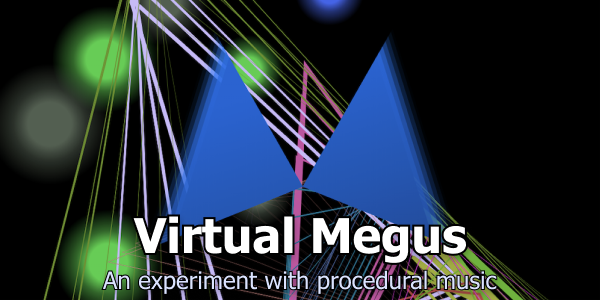
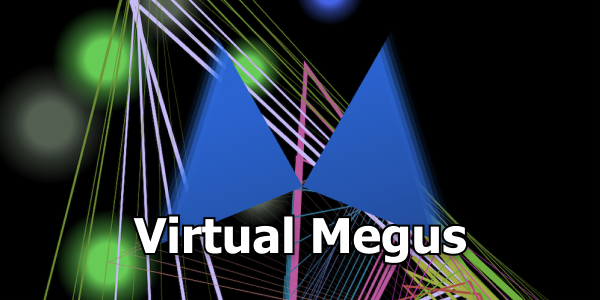
The first article about Virtual Megus

Changed region(s): [[0.15, 0.9, 0.84, 0.99]]

diff --git a/2020/08/18/virtual-megus.html b/2020/08/18/virtual-megus.html
@@ -1,0 +1,158 @@
+<!DOCTYPE html>
+<html lang="en"><head><script async src="https://www.googletagmanager.com/gtag/js?id=UA-104711057-2"></script>
+	<script>
+  	window.dataLayer = window.dataLayer || [];
+  	function gtag(){dataLayer.push(arguments);}
+  	gtag('js', new Date());
+  	gtag('config', 'UA-104711057-2');
+	</script><meta charset="utf-8">
+  <meta http-equiv="X-UA-Compatible" content="IE=edge">
+  <meta name="viewport" content="width=device-width, initial-scale=1">
+  <link rel="icon" href="/assets/favicon-96x96.png">
+  <link href="https://fonts.googleapis.com/css?family=Open+Sans:600|PT+Serif|Source+Code+Pro&display=swap" rel="stylesheet"><!-- Begin Jekyll SEO tag v2.5.0 -->
+<title>Virtual Megus: my experiment with generative music | Megus</title>
+<meta name="generator" content="Jekyll v3.8.5" />
+<meta property="og:title" content="Virtual Megus: my experiment with generative music" />
+<meta property="og:locale" content="en_US" />
+<meta name="description" content="A year ago, I began working on my biggest pet project — Virtual Megus. What is it and why I’m working on it." />
+<meta property="og:description" content="A year ago, I began working on my biggest pet project — Virtual Megus. What is it and why I’m working on it." />
+<link rel="canonical" href="https://megus.org/2020/08/18/virtual-megus.html" />
+<meta property="og:url" content="https://megus.org/2020/08/18/virtual-megus.html" />
+<meta property="og:site_name" content="Megus" />
+<meta property="og:image" content="https://megus.org/assets/blog-images/2020-08-18-cover.jpg" />
+<meta property="og:type" content="article" />
+<meta property="article:published_time" content="2020-08-18T00:00:00+03:00" />
+<meta name="twitter:card" content="summary" />
+<meta name="twitter:site" content="@sugem" />
+<meta name="twitter:creator" content="@sugem" />
+<script type="application/ld+json">
+{"url":"https://megus.org/2020/08/18/virtual-megus.html","headline":"Virtual Megus: my experiment with generative music","dateModified":"2020-08-18T00:00:00+03:00","datePublished":"2020-08-18T00:00:00+03:00","image":"https://megus.org/assets/blog-images/2020-08-18-cover.jpg","mainEntityOfPage":{"@type":"WebPage","@id":"https://megus.org/2020/08/18/virtual-megus.html"},"description":"A year ago, I began working on my biggest pet project — Virtual Megus. What is it and why I’m working on it.","@type":"BlogPosting","@context":"http://schema.org"}</script>
+<!-- End Jekyll SEO tag -->
+<link rel="stylesheet" href="/assets/main.css"><link type="application/atom+xml" rel="alternate" href="https://megus.org/feed.xml" title="Megus" /></head>
+<body><header class="site-header" role="banner">
+  <div class="site-header-wrapper"><a href="/"><img class="site-logo" src="/assets/megus.png" />
+    <span class="site-title" rel="author">Megus</span></a><nav class="site-nav">
+        <input type="checkbox" id="nav-trigger" class="nav-trigger" />
+        <label for="nav-trigger">
+          <span class="menu-icon">
+            <svg viewBox="0 0 18 15" width="18px" height="15px">
+              <path d="M18,1.484c0,0.82-0.665,1.484-1.484,1.484H1.484C0.665,2.969,0,2.304,0,1.484l0,0C0,0.665,0.665,0,1.484,0 h15.032C17.335,0,18,0.665,18,1.484L18,1.484z M18,7.516C18,8.335,17.335,9,16.516,9H1.484C0.665,9,0,8.335,0,7.516l0,0 c0-0.82,0.665-1.484,1.484-1.484h15.032C17.335,6.031,18,6.696,18,7.516L18,7.516z M18,13.516C18,14.335,17.335,15,16.516,15H1.484 C0.665,15,0,14.335,0,13.516l0,0c0-0.82,0.665-1.483,1.484-1.483h15.032C17.335,12.031,18,12.695,18,13.516L18,13.516z"/>
+            </svg>
+          </span>
+        </label>
+
+        <div class="trigger"><a class="page-link" href="/about.html">About</a><a class="page-link" href="/portfolio.html">Portfolio</a><a class="page-link" href="/music.html">Music</a></div>
+      </nav></div>
+</header>
+<main class="page-content" aria-label="Content">
+      <div class="wrapper">
+        <div id="fb-root"></div>
+<script async defer crossorigin="anonymous" src="https://connect.facebook.net/en_US/sdk.js#xfbml=1&version=v3.3&appId=194003690636360&autoLogAppEvents=1"></script>
+<script>window.twttr = (function(d, s, id) {
+    var js, fjs = d.getElementsByTagName(s)[0],
+      t = window.twttr || {};
+    if (d.getElementById(id)) return t;
+    js = d.createElement(s);
+    js.id = id;
+    js.src = "https://platform.twitter.com/widgets.js";
+    fjs.parentNode.insertBefore(js, fjs);
+  
+    t._e = [];
+    t.ready = function(f) {
+      t._e.push(f);
+    };
+  
+    return t;
+  }(document, "script", "twitter-wjs"));</script>
+
+<article class="post h-entry" itemscope itemtype="http://schema.org/BlogPosting">
+  <header class="post-header"><div class="post-cover" style="background-image: url(/assets/blog-images/2020-08-18-cover.jpg)">
+        <div class="gradient">
+          <img hidden itemprop="image" src="/assets/blog-images/2020-08-18-cover.jpg" />
+          <h1 class="post-cover-title p-name" itemprop="name headline">Virtual Megus: my experiment with generative music</h1>
+        </div>
+      </div><p class="post-meta">
+      <time class="dt-published" datetime="2020-08-18T00:00:00+03:00" itemprop="datePublished">Aug 18, 2020
+      </time>
+    </p>
+    <span hidden itemscope itemtype="http://schema.org/Person" itemprop="author">
+      <span hidden itemprop="name">Roman "Megus" Petrov</span>
+    </span>
+  </header>
+
+  <div class="post-content e-content" itemprop="articleBody">
+    <h1 id="virtual-megus-my-experiment-with-generative-music">Virtual Megus: my experiment with generative music</h1>
+
+<iframe class="frame" allowfullscreen="" src="https://www.youtube.com/embed/ntrQNkF8z7g"></iframe>
+
+<p>A year ago, I began working on my current biggest pet project — <a href="https://megus.org/virtual-megus/">Virtual Megus</a>, a generative music system. Music is my hobby, and programming is my job. Projects which combine both of my main passions were always my favorite. I had the idea to create a program that composes music for years but never did it. Last August, I was on vacation and had plenty of time, so I finally decided to give it a try.</p>
+
+<p>Brian Eno, an ambient music pioneer, used the term “Generative music” to describe any music that is ever-different and changing, created by a system. However, the idea of creating music using algorithms or systems is far from new. According to <a href="https://ccrma.stanford.edu/~blackrse/algorithm.html">this article</a>, it dates back to the ancient Greeks! During the Classical period, one of “Musical dice games” (“Musikalisches Würfelspiel” in German) was attributed to Mozart himself, but, according to Wikipedia, this attribution hasn’t been authenticated.</p>
+
+<p>There are many generative music apps, and I tried a number of them. Some were simple and were generating abstract, ambient, and unstructured music. Others had an overwhelming amount of possibilities, but the learning curve was steep. So, like any typical programmer, I decided to invent my own system.</p>
+
+<p>Eno’s definition of generative music covers many different approaches. Manipulating pieces of pre-recorded music, random noises, rule-based composition — these are just a few examples. I picked the path of algorithmic composition. Creations often resemble their creators, mine is not an exception, hence the name — Virtual Megus. I want my system to “compose” melodic electronic music with a song-like structure. It’s an ambitious task, and as a self-taught musician without any formal music education, I realized that I can’t do it without learning music theory. I found an old Soviet music harmony textbook and began studying. When I learn something new, I add it to Virtual Megus.</p>
+
+<p>When I was beginning the work, I decided to make Virtual Megus available to everyone, that’s why it’s not a desktop or a mobile app, but a web application. Everything happens right in a browser, there’s no server-side code at all. As I wanted to learn WebAudio API better, I implemented everything myself from scratch without using any 3rd-party libraries like <a href="https://tonejs.github.io">Tone.js</a>. I also didn’t want to use any Javascript build systems, so all code is pure ES8 and is hosted directly from the repository with GitHub Pages.</p>
+
+<p>What I’ve implemented so far:</p>
+
+<ul>
+  <li>Sample-based drum machine.</li>
+  <li>Monophonic and polyphonic synths.</li>
+  <li>Song structure generator based on a state machine.</li>
+  <li>Chord sequence generator for diatonic scales.</li>
+  <li>Generators for drum patterns, bass, arpeggios, pads, and melodies.</li>
+  <li>Visualization system.</li>
+</ul>
+
+<p>The most challenging one for me now is the melody generator. It produces quite lovely results but still makes many harmony mistakes. I continue to improve every module, sometimes I even rewrite them from scratch when I decide to improve the system architecture or come up with new ideas.</p>
+
+<p>My generative music journey is only beginning. Virtual Megus backlog already has over 40 items, and it’s growing every week! Whenever I learn something new about music theory from books, Wikipedia, or YouTube videos, I get even more ideas.</p>
+
+<ul>
+  <li><a href="https://megus.org/virtual-megus/">Listen to Virtual Megus</a></li>
+  <li><a href="https://github.com/Megus/virtual-megus">Source code on GitHub</a></li>
+</ul>
+
+  </div>
+
+  <a class="u-url" href="/2020/08/18/virtual-megus.html" hidden></a>
+
+</article>
+
+<div class="social-buttons">
+  <a class="twitter-share-button" data-size="large"
+    href="https://twitter.com/intent/tweet?text=Virtual%20Megus:%20my%20experiment%20with%20generative%20music&via=sugem">
+    Tweet
+  </a>
+  <div class="fb-share-button" style="top: -7px;"
+    data-href="https://megus.org/2020/08/18/virtual-megus.html"
+    data-layout="button" data-size="large">
+    <a target="_blank" href="https://www.facebook.com/sharer/sharer.php?u=https%3A%2F%2Fdevelopers.facebook.com%2Fdocs%2Fplugins%2F&amp;src=sdkpreparse" class="fb-xfbml-parse-ignore">Share</a>
+  </div>
+</div>
+
+      </div>
+    </main><footer class="site-footer h-card">
+  <data class="u-url" href="/"></data>
+
+  <div class="wrapper">
+    <div class="footer-col-wrapper">
+      <div class="footer-col">
+        © Roman “Megus” Petrov.<br />
+        <a class="u-email" href="mailto:roman.petrov@icloud.com">roman.petrov@icloud.com</a>
+      </div>
+      <div class="footer-col">
+        <a href="https://twitter.com/sugem"><svg viewbox="0 0 16 16" class="social-icon"><use xlink:href="/assets/minima-social-icons.svg#twitter"></use></svg></a>
+        <a href="https://www.facebook.com/sugem"><svg viewbox="0 0 16 16" class="social-icon"><use xlink:href="/assets/minima-social-icons.svg#facebook"></use></svg></a>
+        <a href="https://github.com/Megus"><svg viewbox="0 0 16 16" class="social-icon"><use xlink:href="/assets/minima-social-icons.svg#github"></use></svg></a>
+        <a href="https://www.youtube.com/user/megussugem"><svg viewbox="0 0 16 16" class="social-icon"><use xlink:href="/assets/minima-social-icons.svg#youtube"></use></svg></a>    
+        <a href="https://medium.com/@megus"><svg viewbox="0 0 16 16" class="social-icon"><use xlink:href="/assets/minima-social-icons.svg#medium"></use></svg></a>
+      </div>
+    </div>
+  </div>
+
+</footer>
+</body>
+</html>

diff --git a/index.html b/index.html
@@ -24,7 +24,7 @@
 <meta name="twitter:site" content="@sugem" />
 <meta name="twitter:creator" content="@sugem" />
 <script type="application/ld+json">
-{"name":"Megus","description":"Personal website of Roman “Megus” Petrov, a programmer and a musician.","@type":"WebSite","url":"https://megus.org/","image":"https://megus.org/assets/megus-photo.jpg","headline":"Megus","@context":"http://schema.org"}</script>
+{"url":"https://megus.org/","headline":"Megus","image":"https://megus.org/assets/megus-photo.jpg","name":"Megus","description":"Personal website of Roman “Megus” Petrov, a programmer and a musician.","@type":"WebSite","@context":"http://schema.org"}</script>
 <!-- End Jekyll SEO tag -->
 <link rel="stylesheet" href="/assets/main.css"><link type="application/atom+xml" rel="alternate" href="https://megus.org/feed.xml" title="Megus" /></head>
 <body><header class="site-header" role="banner">
@@ -52,11 +52,17 @@
     <p>A generative music system which plays infinite electronic music right in your browser.</p>
   </div>
 </div>
-<div class="home-first-post"><a href="/2020/06/07/flutter-orientation.html"><div class="home-first-post-cover" style="background-image: url(/assets/blog-images/2020-06-07-cover.png)"></div></a><div class="home-first-post-body">
+<div class="home-first-post"><a href="/2020/08/18/virtual-megus.html"><div class="home-first-post-cover" style="background-image: url(/assets/blog-images/2020-08-18-cover.jpg)"></div></a><div class="home-first-post-body">
+            <h3><a href="/2020/08/18/virtual-megus.html">Virtual Megus: my experiment with generative music</a></h3>
+            <p>A year ago, I began working on my biggest pet project — Virtual Megus. What is it and why I’m working on it.</p>
+            <p class="post-meta"><span>Aug 18, 2020</span></p>
+          </div>
+        </div><div class="home-post"><a href="/2020/06/07/flutter-orientation.html"><div class="home-post-cover" style="background-image: url(/assets/blog-images/2020-06-07-cover.png)"></div></a><div>
             <h3><a href="/2020/06/07/flutter-orientation.html">Controlling screen orientation in Flutter apps on a per-screen basis</a></h3>
-            <p>A solution to a commonly needed feature for mobile apps made with Flutter.</p>
+            <span>A solution to a commonly needed feature for mobile apps made with Flutter.</span>
             <p class="post-meta"><span>Jun 7, 2020</span></p>
           </div>
+          </a>
         </div><div class="home-post"><a href="/2020/05/04/making-of-picochak.html"><div class="home-post-cover" style="background-image: url(/assets/blog-images/2020-05-04-cover.jpg)"></div></a><div>
             <h3><a href="/2020/05/04/making-of-picochak.html">Making of PICOCHAK</a></h3>
             <span>“Behind the scenes” of the PICO-8 demo I created for CAFe'2019 demoparty.</span>

diff --git a/2019/08/17/creativity-through-limitation-shadertoy.html b/2019/08/17/creativity-through-limitation-shadertoy.html
@@ -26,7 +26,7 @@
 <meta name="twitter:site" content="@sugem" />
 <meta name="twitter:creator" content="@sugem" />
 <script type="application/ld+json">
-{"description":"Shadertoy is a place where anyone can share realtime procedural graphics experiments. This article is an introduction to procedural graphics and ray tracing.","@type":"BlogPosting","url":"https://megus.org/2019/08/17/creativity-through-limitation-shadertoy.html","image":"https://megus.org/assets/blog-images/2019-08-17-cover.jpg","headline":"Creativity through limitation: Shadertoy","dateModified":"2019-08-17T00:00:00+03:00","datePublished":"2019-08-17T00:00:00+03:00","mainEntityOfPage":{"@type":"WebPage","@id":"https://megus.org/2019/08/17/creativity-through-limitation-shadertoy.html"},"@context":"http://schema.org"}</script>
+{"url":"https://megus.org/2019/08/17/creativity-through-limitation-shadertoy.html","headline":"Creativity through limitation: Shadertoy","dateModified":"2019-08-17T00:00:00+03:00","datePublished":"2019-08-17T00:00:00+03:00","image":"https://megus.org/assets/blog-images/2019-08-17-cover.jpg","mainEntityOfPage":{"@type":"WebPage","@id":"https://megus.org/2019/08/17/creativity-through-limitation-shadertoy.html"},"description":"Shadertoy is a place where anyone can share realtime procedural graphics experiments. This article is an introduction to procedural graphics and ray tracing.","@type":"BlogPosting","@context":"http://schema.org"}</script>
 <!-- End Jekyll SEO tag -->
 <link rel="stylesheet" href="/assets/main.css"><link type="application/atom+xml" rel="alternate" href="https://megus.org/feed.xml" title="Megus" /></head>
 <body><header class="site-header" role="banner">

diff --git a/2019/07/17/coding-problems-tower-of-hanoi.html b/2019/07/17/coding-problems-tower-of-hanoi.html
@@ -26,7 +26,7 @@
 <meta name="twitter:site" content="@sugem" />
 <meta name="twitter:creator" content="@sugem" />
 <script type="application/ld+json">
-{"description":"What benefits can developers get by solving coding problems? An example of solving a classic puzzle – Tower of Hanoi.","@type":"BlogPosting","url":"https://megus.org/2019/07/17/coding-problems-tower-of-hanoi.html","image":"https://megus.org/assets/blog-images/2019-07-17-cover.jpg","headline":"Coding problems: why do I like them? Solving Tower of Hanoi puzzle","dateModified":"2019-07-17T00:00:00+03:00","datePublished":"2019-07-17T00:00:00+03:00","mainEntityOfPage":{"@type":"WebPage","@id":"https://megus.org/2019/07/17/coding-problems-tower-of-hanoi.html"},"@context":"http://schema.org"}</script>
+{"url":"https://megus.org/2019/07/17/coding-problems-tower-of-hanoi.html","headline":"Coding problems: why do I like them? Solving Tower of Hanoi puzzle","dateModified":"2019-07-17T00:00:00+03:00","datePublished":"2019-07-17T00:00:00+03:00","image":"https://megus.org/assets/blog-images/2019-07-17-cover.jpg","mainEntityOfPage":{"@type":"WebPage","@id":"https://megus.org/2019/07/17/coding-problems-tower-of-hanoi.html"},"description":"What benefits can developers get by solving coding problems? An example of solving a classic puzzle – Tower of Hanoi.","@type":"BlogPosting","@context":"http://schema.org"}</script>
 <!-- End Jekyll SEO tag -->
 <link rel="stylesheet" href="/assets/main.css"><link rel="stylesheet" href="/assets/css/hanoi.css"><link type="application/atom+xml" rel="alternate" href="https://megus.org/feed.xml" title="Megus" /></head>
 <body><header class="site-header" role="banner">

diff --git a/2019/06/18/creativity-through-limitation-pico-8.html b/2019/06/18/creativity-through-limitation-pico-8.html
@@ -26,7 +26,7 @@
 <meta name="twitter:site" content="@sugem" />
 <meta name="twitter:creator" content="@sugem" />
 <script type="application/ld+json">
-{"description":"When was the last time you coded something just for fun? PICO-8 brings fun back to programming!","@type":"BlogPosting","url":"https://megus.org/2019/06/18/creativity-through-limitation-pico-8.html","image":"https://megus.org/assets/blog-images/2019-06-18-cover.jpg","headline":"Creativity through limitation: PICO-8 — Fantasy Console","dateModified":"2019-06-18T00:00:00+03:00","datePublished":"2019-06-18T00:00:00+03:00","mainEntityOfPage":{"@type":"WebPage","@id":"https://megus.org/2019/06/18/creativity-through-limitation-pico-8.html"},"@context":"http://schema.org"}</script>
+{"url":"https://megus.org/2019/06/18/creativity-through-limitation-pico-8.html","headline":"Creativity through limitation: PICO-8 — Fantasy Console","dateModified":"2019-06-18T00:00:00+03:00","datePublished":"2019-06-18T00:00:00+03:00","image":"https://megus.org/assets/blog-images/2019-06-18-cover.jpg","mainEntityOfPage":{"@type":"WebPage","@id":"https://megus.org/2019/06/18/creativity-through-limitation-pico-8.html"},"description":"When was the last time you coded something just for fun? PICO-8 brings fun back to programming!","@type":"BlogPosting","@context":"http://schema.org"}</script>
 <!-- End Jekyll SEO tag -->
 <link rel="stylesheet" href="/assets/main.css"><link type="application/atom+xml" rel="alternate" href="https://megus.org/feed.xml" title="Megus" /></head>
 <body><header class="site-header" role="banner">

diff --git a/projects/no-space-in-my-stomach.html b/projects/no-space-in-my-stomach.html
@@ -21,12 +21,12 @@
 <meta property="og:site_name" content="Megus" />
 <meta property="og:image" content="https://megus.org/assets/portfolio/no-space-in-my-stomach.jpg" />
 <meta property="og:type" content="article" />
-<meta property="article:published_time" content="2020-06-07T12:53:06+03:00" />
+<meta property="article:published_time" content="2020-08-18T22:07:51+03:00" />
 <meta name="twitter:card" content="summary" />
 <meta name="twitter:site" content="@sugem" />
 <meta name="twitter:creator" content="@sugem" />
 <script type="application/ld+json">
-{"description":"A puzzle platformer game created on Ludum Dare game jam","@type":"WebPage","url":"https://megus.org/projects/no-space-in-my-stomach.html","image":"https://megus.org/assets/portfolio/no-space-in-my-stomach.jpg","headline":"No Space In My Stomach","dateModified":"2020-06-07T12:53:06+03:00","datePublished":"2020-06-07T12:53:06+03:00","@context":"http://schema.org"}</script>
+{"url":"https://megus.org/projects/no-space-in-my-stomach.html","headline":"No Space In My Stomach","dateModified":"2020-08-18T22:07:51+03:00","datePublished":"2020-08-18T22:07:51+03:00","image":"https://megus.org/assets/portfolio/no-space-in-my-stomach.jpg","description":"A puzzle platformer game created on Ludum Dare game jam","@type":"WebPage","@context":"http://schema.org"}</script>
 <!-- End Jekyll SEO tag -->
 <link rel="stylesheet" href="/assets/main.css"><link type="application/atom+xml" rel="alternate" href="https://megus.org/feed.xml" title="Megus" /></head>
 <body><header class="site-header" role="banner">

diff --git a/projects/good-hamster-dead-hamster.html b/projects/good-hamster-dead-hamster.html
@@ -21,12 +21,12 @@
 <meta property="og:site_name" content="Megus" />
 <meta property="og:image" content="https://megus.org/assets/portfolio/good-hamster-dead-hamster.jpg" />
 <meta property="og:type" content="article" />
-<meta property="article:published_time" content="2020-06-07T12:53:06+03:00" />
+<meta property="article:published_time" content="2020-08-18T22:07:51+03:00" />
 <meta name="twitter:card" content="summary" />
 <meta name="twitter:site" content="@sugem" />
 <meta name="twitter:creator" content="@sugem" />
 <script type="application/ld+json">
-{"description":"A mix of cellular automaton fun and strategy","@type":"WebPage","url":"https://megus.org/projects/good-hamster-dead-hamster.html","image":"https://megus.org/assets/portfolio/good-hamster-dead-hamster.jpg","headline":"Good Hamster Dead Hamster","dateModified":"2020-06-07T12:53:06+03:00","datePublished":"2020-06-07T12:53:06+03:00","@context":"http://schema.org"}</script>
+{"url":"https://megus.org/projects/good-hamster-dead-hamster.html","headline":"Good Hamster Dead Hamster","dateModified":"2020-08-18T22:07:51+03:00","datePublished":"2020-08-18T22:07:51+03:00","image":"https://megus.org/assets/portfolio/good-hamster-dead-hamster.jpg","description":"A mix of cellular automaton fun and strategy","@type":"WebPage","@context":"http://schema.org"}</script>
 <!-- End Jekyll SEO tag -->
 <link rel="stylesheet" href="/assets/main.css"><link type="application/atom+xml" rel="alternate" href="https://megus.org/feed.xml" title="Megus" /></head>
 <body><header class="site-header" role="banner">

diff --git a/projects/defold-extensions.html b/projects/defold-extensions.html
@@ -21,12 +21,12 @@
 <meta property="og:site_name" content="Megus" />
 <meta property="og:image" content="https://megus.org/assets/portfolio/defold-extensions.jpg" />
 <meta property="og:type" content="article" />
-<meta property="article:published_time" content="2020-06-07T12:53:06+03:00" />
+<meta property="article:published_time" content="2020-08-18T22:07:51+03:00" />
 <meta name="twitter:card" content="summary" />
 <meta name="twitter:site" content="@sugem" />
 <meta name="twitter:creator" content="@sugem" />
 <script type="application/ld+json">
-{"description":"Open-source libraries and extensions for Defold game engine","@type":"WebPage","url":"https://megus.org/projects/defold-extensions.html","image":"https://megus.org/assets/portfolio/defold-extensions.jpg","headline":"Defold extensions","dateModified":"2020-06-07T12:53:06+03:00","datePublished":"2020-06-07T12:53:06+03:00","@context":"http://schema.org"}</script>
+{"url":"https://megus.org/projects/defold-extensions.html","headline":"Defold extensions","dateModified":"2020-08-18T22:07:51+03:00","datePublished":"2020-08-18T22:07:51+03:00","image":"https://megus.org/assets/portfolio/defold-extensions.jpg","description":"Open-source libraries and extensions for Defold game engine","@type":"WebPage","@context":"http://schema.org"}</script>
 <!-- End Jekyll SEO tag -->
 <link rel="stylesheet" href="/assets/main.css"><link type="application/atom+xml" rel="alternate" href="https://megus.org/feed.xml" title="Megus" /></head>
 <body><header class="site-header" role="banner">

diff --git a/projects/guitarability.html b/projects/guitarability.html
@@ -21,12 +21,12 @@
 <meta property="og:site_name" content="Megus" />
 <meta property="og:image" content="https://megus.org/assets/portfolio/guitarability.jpg" />
 <meta property="og:type" content="article" />
-<meta property="article:published_time" content="2020-06-07T12:53:06+03:00" />
+<meta property="article:published_time" content="2020-08-18T22:07:51+03:00" />
 <meta name="twitter:card" content="summary" />
 <meta name="twitter:site" content="@sugem" />
 <meta name="twitter:creator" content="@sugem" />
 <script type="application/ld+json">
-{"description":"Performance evaluation module for a guitar training application","@type":"WebPage","url":"https://megus.org/projects/guitarability.html","image":"https://megus.org/assets/portfolio/guitarability.jpg","headline":"Guitarability","dateModified":"2020-06-07T12:53:06+03:00","datePublished":"2020-06-07T12:53:06+03:00","@context":"http://schema.org"}</script>
+{"url":"https://megus.org/projects/guitarability.html","headline":"Guitarability","dateModified":"2020-08-18T22:07:51+03:00","datePublished":"2020-08-18T22:07:51+03:00","image":"https://megus.org/assets/portfolio/guitarability.jpg","description":"Performance evaluation module for a guitar training application","@type":"WebPage","@context":"http://schema.org"}</script>
 <!-- End Jekyll SEO tag -->
 <link rel="stylesheet" href="/assets/main.css"><link type="application/atom+xml" rel="alternate" href="https://megus.org/feed.xml" title="Megus" /></head>
 <body><header class="site-header" role="banner">

diff --git a/2018/08/05/creativity-through-limitation-8-bit-demoscene.html b/2018/08/05/creativity-through-limitation-8-bit-demoscene.html
@@ -26,7 +26,7 @@
 <meta name="twitter:site" content="@sugem" />
 <meta name="twitter:creator" content="@sugem" />
 <script type="application/ld+json">
-{"description":"Pushing old computers to the limits and beyond.","@type":"BlogPosting","url":"https://megus.org/2018/08/05/creativity-through-limitation-8-bit-demoscene.html","image":"https://megus.org/assets/blog-images/2018-08-05-cover.jpg","headline":"Creativity through limitation: 8-bit demoscene","dateModified":"2018-08-05T00:00:00+03:00","datePublished":"2018-08-05T00:00:00+03:00","mainEntityOfPage":{"@type":"WebPage","@id":"https://megus.org/2018/08/05/creativity-through-limitation-8-bit-demoscene.html"},"@context":"http://schema.org"}</script>
+{"url":"https://megus.org/2018/08/05/creativity-through-limitation-8-bit-demoscene.html","headline":"Creativity through limitation: 8-bit demoscene","dateModified":"2018-08-05T00:00:00+03:00","datePublished":"2018-08-05T00:00:00+03:00","image":"https://megus.org/assets/blog-images/2018-08-05-cover.jpg","mainEntityOfPage":{"@type":"WebPage","@id":"https://megus.org/2018/08/05/creativity-through-limitation-8-bit-demoscene.html"},"description":"Pushing old computers to the limits and beyond.","@type":"BlogPosting","@context":"http://schema.org"}</script>
 <!-- End Jekyll SEO tag -->
 <link rel="stylesheet" href="/assets/main.css"><link type="application/atom+xml" rel="alternate" href="https://megus.org/feed.xml" title="Megus" /></head>
 <body><header class="site-header" role="banner">

diff --git a/2020/06/07/flutter-orientation.html b/2020/06/07/flutter-orientation.html
@@ -26,7 +26,7 @@
 <meta name="twitter:site" content="@sugem" />
 <meta name="twitter:creator" content="@sugem" />
 <script type="application/ld+json">
-{"description":"A solution to a commonly needed feature for mobile apps made with Flutter.","@type":"BlogPosting","url":"https://megus.org/2020/06/07/flutter-orientation.html","image":"https://megus.org/assets/blog-images/2020-06-07-cover.png","headline":"Controlling screen orientation in Flutter apps on a per-screen basis","dateModified":"2020-06-07T00:00:00+03:00","datePublished":"2020-06-07T00:00:00+03:00","mainEntityOfPage":{"@type":"WebPage","@id":"https://megus.org/2020/06/07/flutter-orientation.html"},"@context":"http://schema.org"}</script>
+{"url":"https://megus.org/2020/06/07/flutter-orientation.html","headline":"Controlling screen orientation in Flutter apps on a per-screen basis","dateModified":"2020-06-07T00:00:00+03:00","datePublished":"2020-06-07T00:00:00+03:00","image":"https://megus.org/assets/blog-images/2020-06-07-cover.png","mainEntityOfPage":{"@type":"WebPage","@id":"https://megus.org/2020/06/07/flutter-orientation.html"},"description":"A solution to a commonly needed feature for mobile apps made with Flutter.","@type":"BlogPosting","@context":"http://schema.org"}</script>
 <!-- End Jekyll SEO tag -->
 <link rel="stylesheet" href="/assets/main.css"><link type="application/atom+xml" rel="alternate" href="https://megus.org/feed.xml" title="Megus" /></head>
 <body><header class="site-header" role="banner">

diff --git a/projects/acroplia.html b/projects/acroplia.html
@@ -21,12 +21,12 @@
 <meta property="og:site_name" content="Megus" />
 <meta property="og:image" content="https://megus.org/assets/portfolio/acroplia.png" />
 <meta property="og:type" content="article" />
-<meta property="article:published_time" content="2020-06-07T12:53:06+03:00" />
+<meta property="article:published_time" content="2020-08-18T22:07:51+03:00" />
 <meta name="twitter:card" content="summary" />
 <meta name="twitter:site" content="@sugem" />
 <meta name="twitter:creator" content="@sugem" />
 <script type="application/ld+json">
-{"description":"An education, team communication, and collaboration startup","@type":"WebPage","url":"https://megus.org/projects/acroplia.html","image":"https://megus.org/assets/portfolio/acroplia.png","headline":"Acroplia","dateModified":"2020-06-07T12:53:06+03:00","datePublished":"2020-06-07T12:53:06+03:00","@context":"http://schema.org"}</script>
+{"url":"https://megus.org/projects/acroplia.html","headline":"Acroplia","dateModified":"2020-08-18T22:07:51+03:00","datePublished":"2020-08-18T22:07:51+03:00","image":"https://megus.org/assets/portfolio/acroplia.png","description":"An education, team communication, and collaboration startup","@type":"WebPage","@context":"http://schema.org"}</script>
 <!-- End Jekyll SEO tag -->
 <link rel="stylesheet" href="/assets/main.css"><link type="application/atom+xml" rel="alternate" href="https://megus.org/feed.xml" title="Megus" /></head>
 <body><header class="site-header" role="banner">
